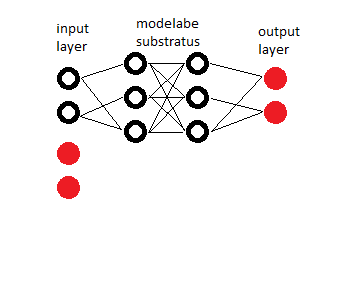
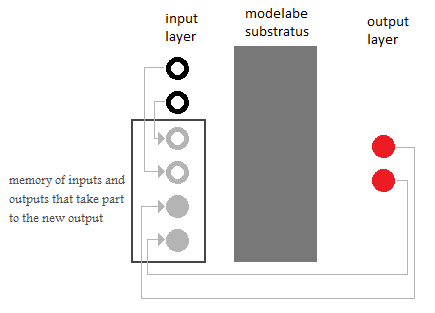
Readme.

diff --git a/README.md b/README.md
@@ -7,13 +7,22 @@ It is based on personal studies about psicology and personal inspiration.
 I've not knowledge about the actually proven AI technologies.
 
 The basic idea: 
-Considering a set of binary inputs, and a set of binary outputs, we have to create a data structure that for each combinations on inputs can relate all the outputs combinations.
+Considering a set of binary inputs, and a set of binary outputs, we have to create a data structure that for each combination on inputs can 
+relate all the outputs combinations.
 
-This data structure must allow to be *modeled* in order to change, for a given input, the best outputs combinations.
+This data structure must allow to be *modeled* in order to provide, for a given input, the best outputs combination.
 
-input mem
+![Alt text](https://raw.githubusercontent.com/dddomodossola/pyBrain/master/res/basic_network.png "Basic network")
 
-output mem
+The information are represented by the connections in the "modelable substratus". These connections will be strengthened or weakened by some kind 
+of law that, considering the output effect, teaches the network.
+At this point, there is about nothing of *intelligence*.
+
+Now, suppose you want to get an output that have to be related to the previous *events* (for *event* it is intended the combination of input/output),
+how to do this with the said data structure? We can provide back the previous inputs outputs as new inputs.
+
+![Alt text](https://raw.githubusercontent.com/dddomodossola/pyBrain/master/res/memory_network.png "Memory network")
+
 
 feedback function
 
